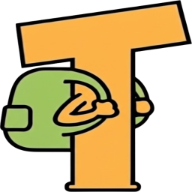
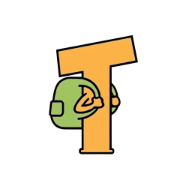
[chore] 앱 설치 이미지 변경 및 pwainstallprompt 수정

diff --git a/nextjs/src/components/PwaInstallPrompt.tsx b/nextjs/src/components/PwaInstallPrompt.tsx
@@ -1,7 +1,7 @@
 'use client';
 
 import { useEffect, useState } from 'react';
-import { FiCheck, FiDownload, FiExternalLink, FiHome, FiShare, FiX } from 'react-icons/fi';
+import { FiCheck, FiDownload, FiExternalLink, FiPlusSquare, FiShare, FiX } from 'react-icons/fi';
 
 // iOS Safari 전용 속성 타입 확장
 declare global {
@@ -57,8 +57,9 @@ const IOSNonSafariPrompt = ({ onClose }: { onClose: () => void }) => {
         setTimeout(() => setCopied(false), 2000);
       })
       .catch((err) => {
-        console.error('URL 복사에 실패했습니다:', err);
-        alert('URL 복사에 실패했습니다. 수동으로 복사해주세요.');
+        // URL 복사 실패 시 콘솔에 에러 출력 (한국어 주석)
+        console.error('Failed to copy URL:', err);
+        alert('Failed to copy URL. Please copy it manually.');
       });
   };
 
@@ -70,9 +71,10 @@ const IOSNonSafariPrompt = ({ onClose }: { onClose: () => void }) => {
             <FiExternalLink className="w-8 h-8 text-blue-600" />
           </div>
 
-          <h3 className="text-lg font-semibold mb-2">Safari에서 열어주세요</h3>
+          <h3 className="text-lg font-semibold mb-2">Open in Safari</h3>
           <p className="text-sm text-gray-600 mb-6">
-            앱 설치와 푸시 알림을 위해, 아래 버튼으로 주소를 복사한 후 Safari에 붙여넣어 주세요.
+            To install the app and enable push notifications, copy the URL below and open it in
+            Safari.
           </p>
 
           <div className="space-y-3">
@@ -82,13 +84,13 @@ const IOSNonSafariPrompt = ({ onClose }: { onClose: () => void }) => {
                 copied ? 'bg-green-500 hover:bg-green-600' : 'bg-blue-600 hover:bg-blue-700'
               }`}
             >
-              {copied ? '주소 복사 완료!' : '주소 복사하기'}
+              {copied ? 'URL copied!' : 'Copy URL'}
             </button>
             <button
               onClick={onClose}
               className="w-full px-4 py-2 bg-gray-100 text-gray-700 rounded-md hover:bg-gray-200"
             >
-              나중에
+              Later
             </button>
           </div>
         </div>
@@ -110,7 +112,7 @@ const SafariInstallGuide = ({ onClose }: { onClose: () => void }) => {
     {
       title: 'Step 2: Add to Home Screen',
       description: "Scroll down and tap 'Add to Home Screen'",
-      icon: <FiHome className="w-6 h-6 text-blue-600" />,
+      icon: <FiPlusSquare className="w-6 h-6 text-blue-600" />,
     },
     {
       title: 'Step 3: Confirm Installation',
@@ -185,6 +187,7 @@ const AutoInstallPrompt = ({
     deferredPrompt.prompt();
     const { outcome } = await deferredPrompt.userChoice;
 
+    // 한국어 주석: PWA 설치 결과를 콘솔에 출력
     if (outcome === 'accepted') {
       console.log('사용자가 PWA 설치를 수락했습니다');
     } else {
@@ -201,22 +204,22 @@ const AutoInstallPrompt = ({
           <div className="w-16 h-16 bg-blue-100 rounded-full flex items-center justify-center mx-auto mb-4">
             <FiDownload className="w-8 h-8 text-blue-600" />
           </div>
-          <h3 className="text-lg font-semibold mb-2">Togetrips 앱 설치</h3>
+          <h3 className="text-lg font-semibold mb-2">Install Togetrips App</h3>
           <p className="text-sm text-gray-600 mb-6">
-            홈 화면에 앱을 추가하여 더 빠르고 편리하게 이용하세요.
+            Add the app to your home screen for a faster and more convenient experience.
           </p>
           <div className="space-y-3">
             <button
               onClick={handleInstallClick}
               className="w-full px-4 py-2 bg-blue-600 text-white rounded-md hover:bg-blue-700"
             >
-              설치
+              Install
             </button>
             <button
               onClick={onClose}
               className="w-full px-4 py-2 bg-gray-100 text-gray-700 rounded-md hover:bg-gray-200"
             >
-              나중에
+              Later
             </button>
           </div>
         </div>
@@ -240,14 +243,14 @@ const InstallBanner = ({
           <div className="w-10 h-10 bg-blue-100 rounded-lg flex items-center justify-center">
             <FiDownload className="w-5 h-5 text-blue-600" />
           </div>
-          <p className="text-sm font-medium text-gray-800">Togetrips를 앱으로 사용해보세요!</p>
+          <p className="text-sm font-medium text-gray-800">Try Togetrips as an app!</p>
         </div>
         <div className="flex items-center space-x-2">
           <button
             onClick={onInstallClick}
             className="px-4 py-1.5 bg-blue-600 text-white text-xs font-semibold rounded-full hover:bg-blue-700"
           >
-            설치
+            Install
           </button>
           <button onClick={onClose} className="p-1 text-gray-400 hover:text-gray-600">
             <FiX className="w-4 h-4" />
